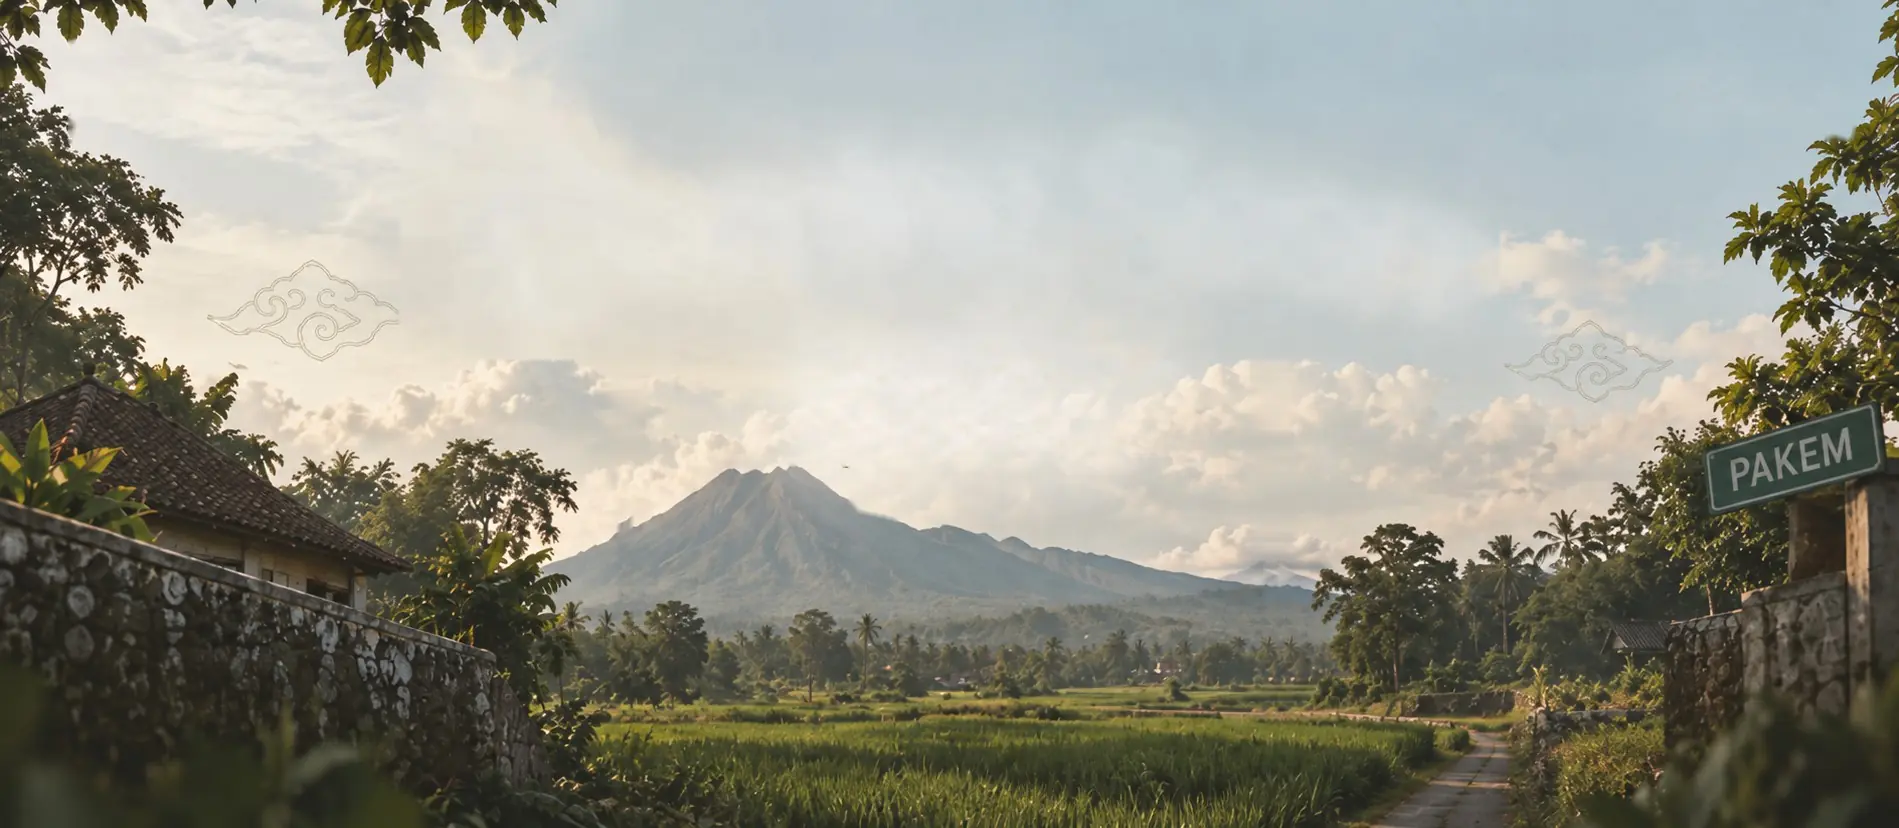
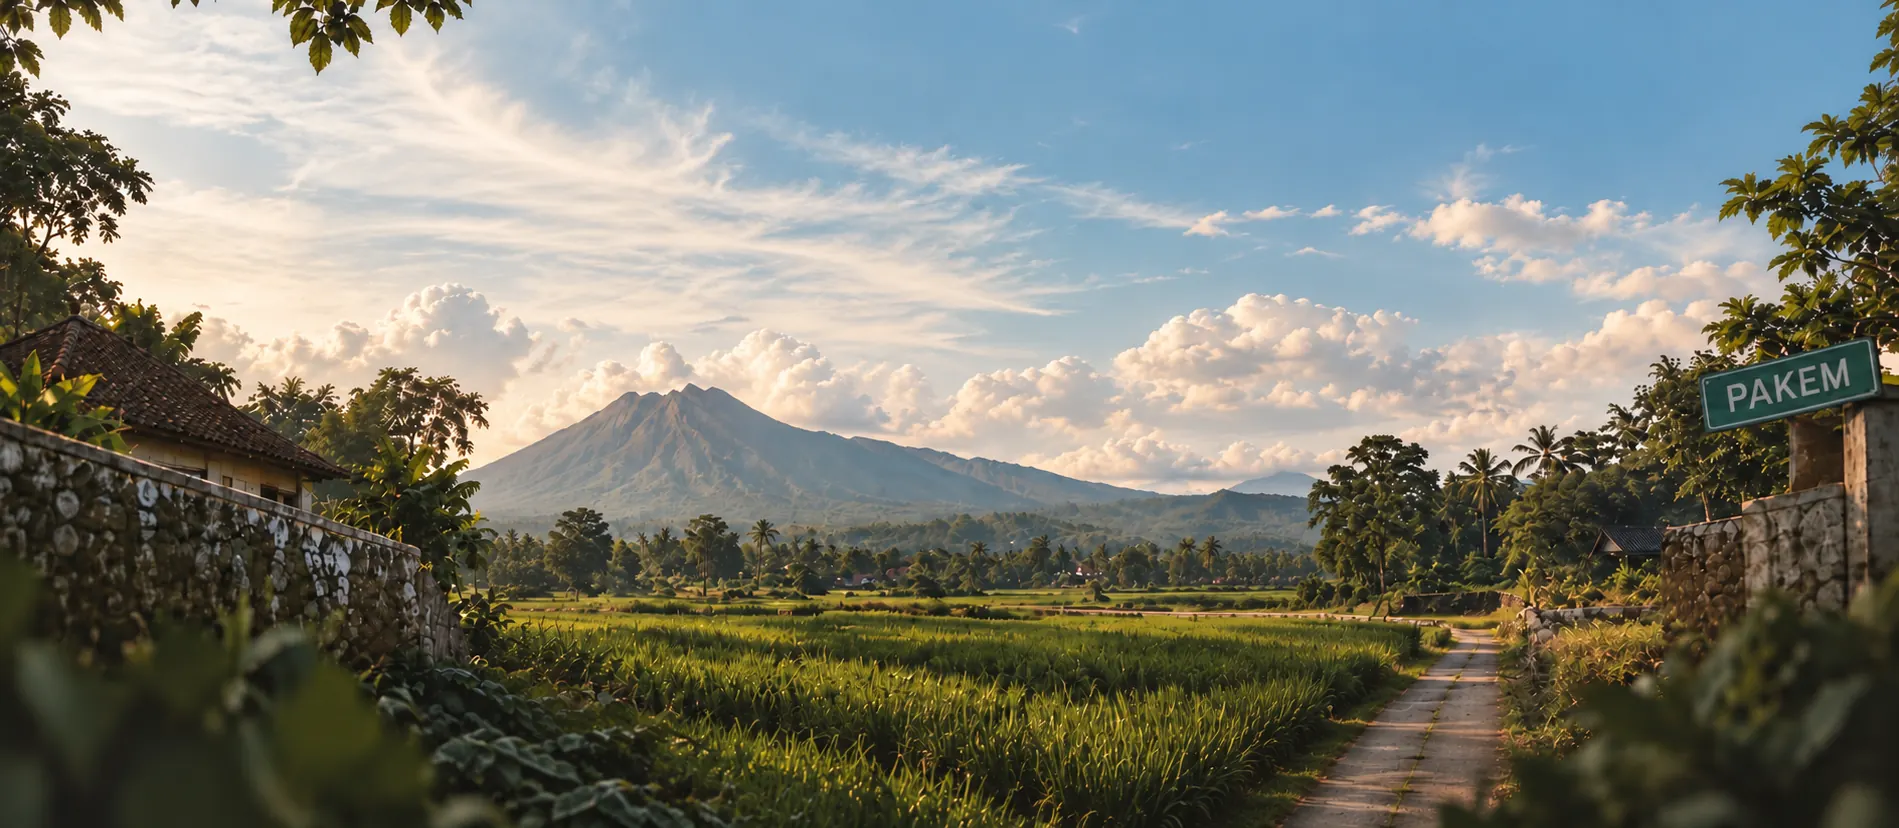
Use original untexted poster photo, megamendung ornaments, stronger scrim

diff --git a/index.html b/index.html
@@ -47,7 +47,7 @@ body{
 .scrim{
   position:fixed;inset:0;z-index:1;pointer-events:none;
   background:
-    radial-gradient(ellipse 66% 44% at 50% 32%, rgba(248,246,236,.42) 0%, rgba(248,246,236,.16) 48%, rgba(248,246,236,0) 74%),
+    radial-gradient(ellipse 72% 60% at 50% 44%, rgba(248,246,236,.55) 0%, rgba(248,246,236,.26) 52%, rgba(248,246,236,0) 76%),
     linear-gradient(180deg, rgba(248,246,236,.28), rgba(248,246,236,0) 18%),
     linear-gradient(to top, rgba(24,34,20,.30), rgba(24,34,20,0) 16%);
 }
@@ -143,7 +143,7 @@ h1.coming{
   color:var(--forest);text-decoration:none;
   border:1px solid rgba(59,74,40,.8);
   border-radius:2px;
-  background:rgba(251,248,238,.78);
+  background:rgba(251,248,238,.88);
   box-shadow:0 6px 22px -12px rgba(30,42,24,.5);
   transition:color .35s ease, transform .35s ease, box-shadow .35s ease, border-color .35s ease;
 }
@@ -172,6 +172,15 @@ h1.coming{
 }
 .btn:active{transform:translateY(1px)}
 
+/* megamendung line-art ornaments */
+.cloudline{position:absolute;top:15%;width:clamp(120px,11vw,180px);height:auto}
+.cloudline path{fill:none;stroke:#f6f1de;stroke-opacity:.85;stroke-width:2;stroke-linecap:round;filter:drop-shadow(0 1px 2px rgba(60,70,50,.25))}
+.cloud-l{left:clamp(8px,7vw,140px)}
+.cloud-r{right:clamp(8px,7vw,140px)}
+@media (max-width:900px){
+  .cloudline{display:none}
+}
+
 /* ---------- motion (progressive enhancement) ---------- */
 @media (prefers-reduced-motion: no-preference){
   .scene{animation:sceneIn 2s ease-out both}
@@ -181,11 +190,14 @@ h1.coming{
   .d4{animation-delay:.85s}.d5{animation-delay:1.05s}
   .leaf{animation:sway 5.5s ease-in-out infinite alternate}
   .motes span{animation:mote var(--dur,12s) ease-in-out var(--delay,0s) infinite}
+  .cloudline .float{animation:bob 7.5s ease-in-out infinite alternate}
+  .cloud-r .float{animation-delay:1.6s}
 }
 @keyframes rise{from{opacity:0;transform:translateY(18px)}to{opacity:1;transform:none}}
 @keyframes sceneIn{from{opacity:0}to{opacity:1}}
 @keyframes kenburns{from{transform:scale(1)}to{transform:scale(1.055)}}
 @keyframes sway{from{transform:rotate(-4deg)}to{transform:rotate(5deg)}}
+@keyframes bob{from{transform:translateY(-5px)}to{transform:translateY(5px)}}
 @keyframes mote{
   0%{opacity:0;transform:translate(0,0)}
   18%{opacity:var(--peak,.7)}
@@ -201,7 +213,7 @@ h1.coming{
   .corner{letter-spacing:.24em}
   main.hero{padding-bottom:9vh}
   .motes span:nth-child(even){display:none}
-  .kb img{object-position:44% 100%}
+  .kb img{object-position:38% 100%}
 }
 @media (max-height:700px){
   main.hero{padding-bottom:4vh}
@@ -254,6 +266,25 @@ h1.coming{
   </header>
 
   <main class="hero" id="hero">
+    <svg class="cloudline cloud-l anim d5" viewBox="0 0 170 90" aria-hidden="true">
+      <g class="float">
+        <path d="M14 62 C 6 38 24 18 48 18 C 70 18 82 34 76 50 C 72 62 56 66 49 56 C 44 48 51 40 59 43"/>
+        <path d="M82 58 C 88 38 112 32 128 43 C 139 51 136 66 122 67 C 114 68 110 60 116 55"/>
+        <path d="M6 72 C 40 82 96 82 136 68"/>
+        <path d="M142 52 C 152 44 160 43 166 47"/>
+      </g>
+    </svg>
+    <svg class="cloudline cloud-r anim d5" viewBox="0 0 170 90" aria-hidden="true">
+      <g class="float">
+        <g transform="translate(170 0) scale(-1 1)">
+          <path d="M14 62 C 6 38 24 18 48 18 C 70 18 82 34 76 50 C 72 62 56 66 49 56 C 44 48 51 40 59 43"/>
+          <path d="M82 58 C 88 38 112 32 128 43 C 139 51 136 66 122 67 C 114 68 110 60 116 55"/>
+          <path d="M6 72 C 40 82 96 82 136 68"/>
+          <path d="M142 52 C 152 44 160 43 166 47"/>
+        </g>
+      </g>
+    </svg>
+
     <h1 class="coming anim d2">Coming&nbsp;Soon</h1>
 
     <p class="title">
